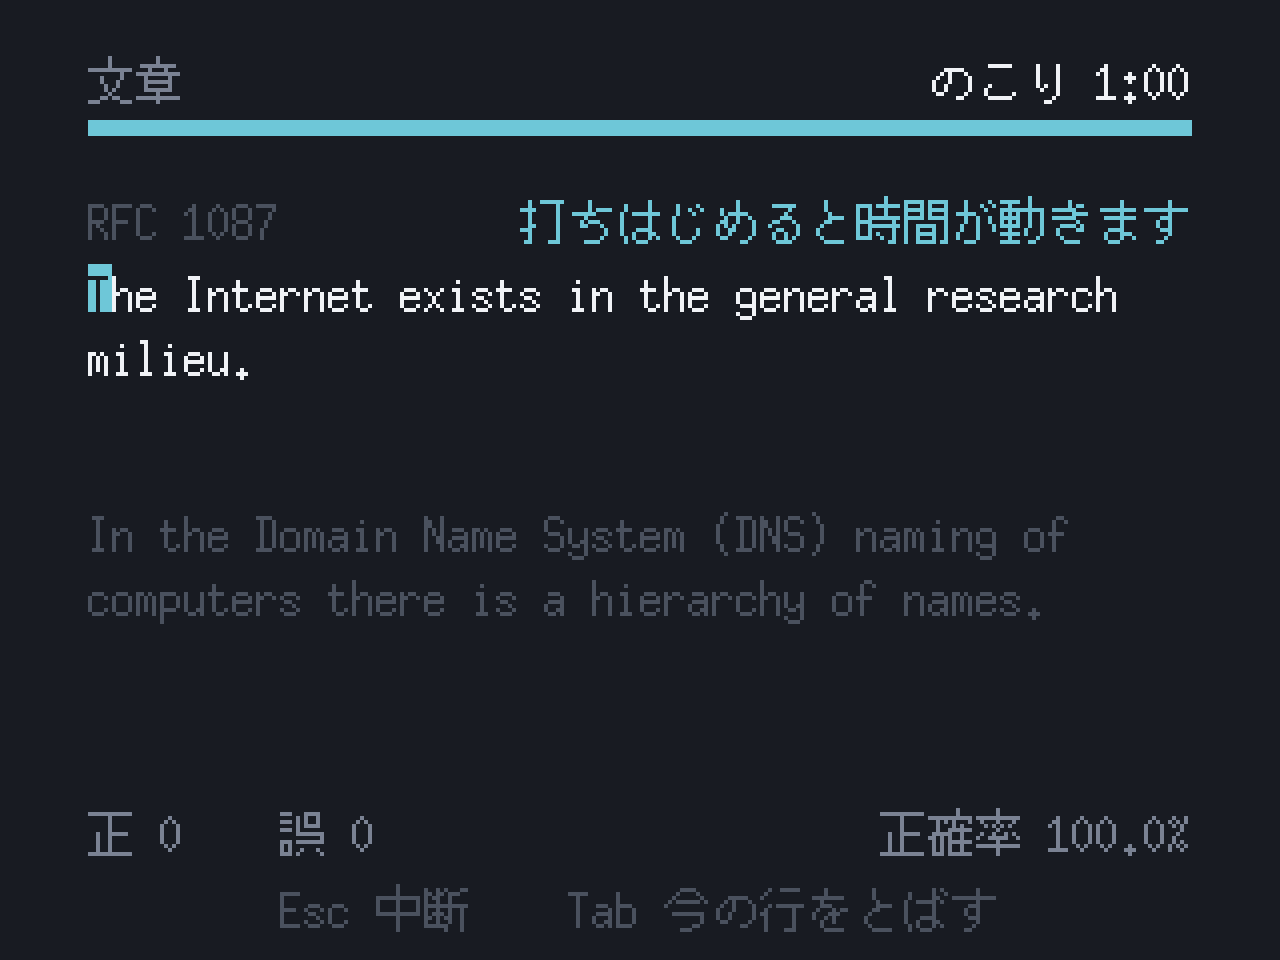
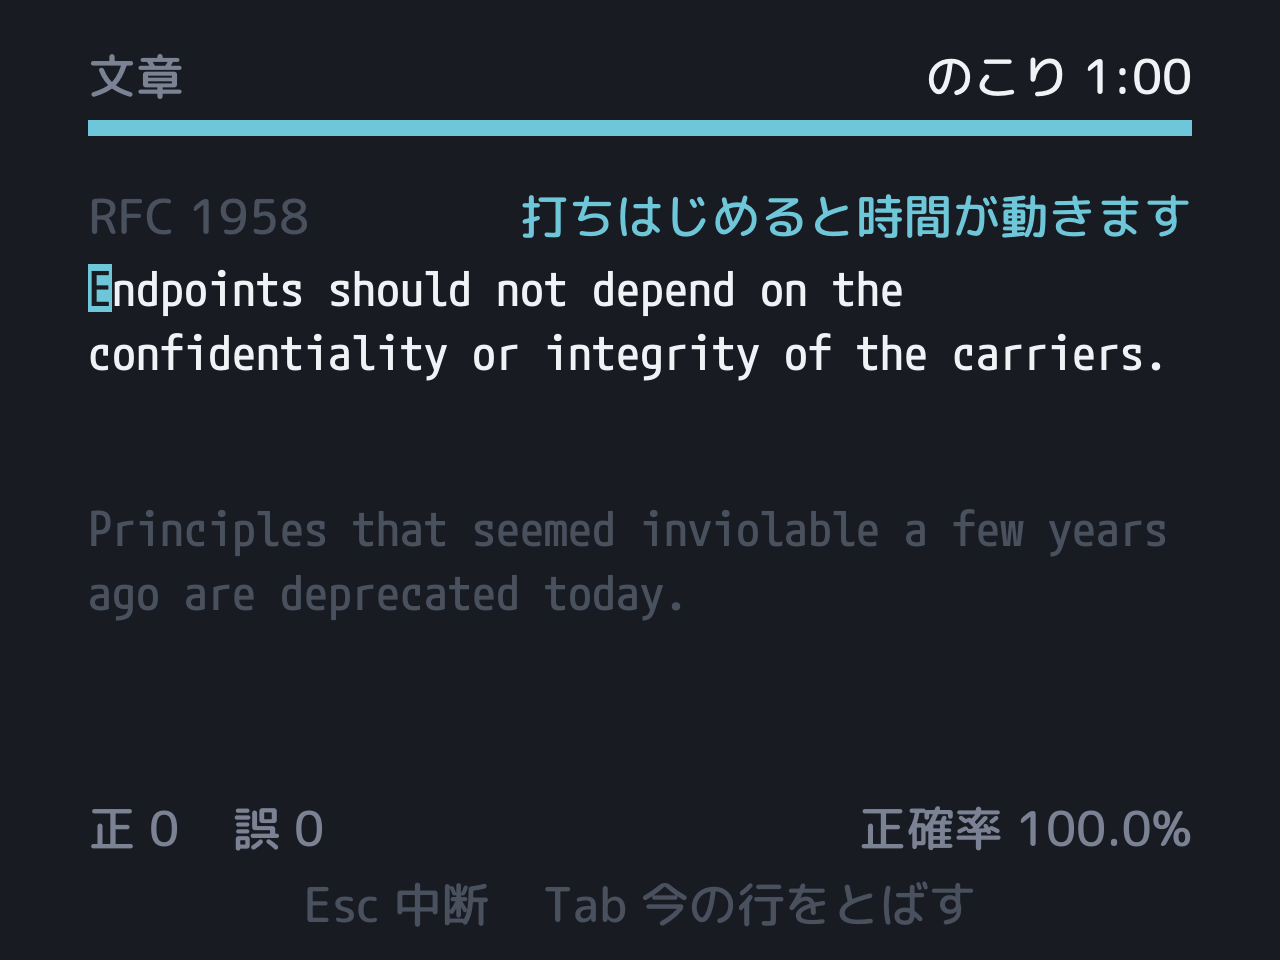
サイト公開: ビルド成果物を更新

diff --git a/apps/kotozuchi/index.html b/apps/kotozuchi/index.html
@@ -1,2 +1,2 @@
-<!doctype html><html lang=ja><head><meta charset=UTF-8><meta name=viewport content="width=device-width,initial-scale=1"><title>アプリ紹介</title><meta name=description content="オリジナルアプリを紹介するページ"><link rel=stylesheet href=/css/style.css></head><body><main class=container><p><a class=back-link href=/>&larr; アプリ一覧へ</a></p><article class=app-detail><header class=detail-header><h1>Kotozuchi</h1><span class=app-platform>ブラウザ</span><p class=app-tagline>RFC の英文・数字・記号を打って、打鍵を鍛えるタイピング練習ゲーム</p></header><figure class=detail-shot><img src=/img/kotozuchi.png alt="Kotozuchi のスクリーンショット"></figure><p class=app-note>名前は「言（こと）」＋「槌（つち）」＝「言槌（ことづち）」から。言葉を打って打鍵を鍛えることより。</p><section class=detail-section><h2>どんなゲーム？</h2><ul><li>画面に出る文字を、制限時間の中で正しく打っていくタイピング練習ゲーム。</li><li>出題は「文章」「数字」「記号」の3つのモードから選べます。</li><li>文章モードは、インターネットの取り決めを書いた文書「RFC」の本文から、英文を1文ずつそのまま出題します。</li><li>数字モードは 0〜9 の並びを、記号モードは ASCII の記号32種を出題します。</li></ul></section><section class=detail-section><h2>打ち方</h2><ul><li>正しいキーを押すと次の文字へ進みます。間違えても消す操作は要らず、正しいキーを押せば先に進みます。</li><li>間違えた文字には印が残り、何のキーを打ってしまったかも表示されます。</li><li>次に出る行が薄く先に表示されるので、行の切れ目で手が止まりにくくなっています。</li><li>制限時間は最初の1文字を打ったときから動き出します。</li></ul></section><section class=detail-section><h2>操作</h2><ul><li>メニューでは ↑↓ で項目を選び、←→ でモードや制限時間を変え、Enter で始めます。</li><li>制限時間は 15秒 から 10分 まで、9段階から選べます（はじめは 1分）。</li><li>打っている途中は、Esc で中断、Tab で今の行をとばせます。</li><li>IME（日本語入力）はオフにして遊んでください。</li></ul></section><section class=detail-section><h2>けっか</h2><ul><li>正しく打てた文字数・打ち間違い・とばした文字・正確率・速さ（1分あたりの文字数と語数）・打ち終えた行が表示されます。</li><li>スコアは「正しく打てた文字数 × 正確率」です。速くても間違いが多いと伸びません。</li><li>とばした文字も正確率に含まれるので、難しい行をとばして正確率を上げることはできません。</li></ul></section><section class=detail-section><h2>技術情報</h2><ul><li>Go + Ebitengine で書き、WebAssembly にしてブラウザで動かしています（同じコードでデスクトップ版にもなります）。</li><li>画面は論理解像度 640×480。文字は 12px のビットマップフォント（bitmapfont）で描画します。</li><li>キーの位置ではなく、OS やブラウザが解釈した後の文字で入力を受けるため、JIS 配列でも US 配列でも刻印どおりに打てます。</li><li>出題文は、著作権表示の無い 1997 年以前の RFC から自作ツールで抽出。固定幅の折り返しとページのヘッダ・フッタを除くだけで、語句は書き換えていません。抽出した文はバイナリに埋め込み。</li><li>GitHub Actions で main への push ごとに、テスト → WASM ビルド → GitHub Pages への配信を自動で行います。</li><li>ライセンスは Apache License 2.0。</li></ul></section><div class="app-links detail-links"><a class="btn btn-primary" href=https://morststs.github.io/kotozuchi/ target=_blank rel="noopener noreferrer">サイトを開く</a>
+<!doctype html><html lang=ja><head><meta charset=UTF-8><meta name=viewport content="width=device-width,initial-scale=1"><title>アプリ紹介</title><meta name=description content="オリジナルアプリを紹介するページ"><link rel=stylesheet href=/css/style.css></head><body><main class=container><p><a class=back-link href=/>&larr; アプリ一覧へ</a></p><article class=app-detail><header class=detail-header><h1>Kotozuchi</h1><span class=app-platform>ブラウザ</span><p class=app-tagline>RFC の英文・数字・記号を打って、打鍵を鍛えるタイピング練習ゲーム</p></header><figure class=detail-shot><img src=/img/kotozuchi.png alt="Kotozuchi のスクリーンショット"></figure><p class=app-note>名前は「言（こと）」＋「槌（つち）」＝「言槌（ことづち）」から。言葉を打って打鍵を鍛えることより。</p><section class=detail-section><h2>どんなゲーム？</h2><ul><li>画面に出る文字を、制限時間の中で正しく打っていくタイピング練習ゲーム。</li><li>出題は「文章」「数字」「記号」の3つのモードから選べます。</li><li>文章モードは、インターネットの取り決めを書いた文書「RFC」の本文から、英文を1文ずつそのまま出題します。</li><li>数字モードは 0〜9 の並びを、記号モードは ASCII の記号32種を出題します。</li></ul></section><section class=detail-section><h2>打ち方</h2><ul><li>正しいキーを押すと次の文字へ進みます。間違えても消す操作は要らず、正しいキーを押せば先に進みます。</li><li>間違えた文字には印が残り、何のキーを打ってしまったかも表示されます。</li><li>次に出る行が薄く先に表示されるので、行の切れ目で手が止まりにくくなっています。</li><li>制限時間は最初の1文字を打ったときから動き出します。</li></ul></section><section class=detail-section><h2>操作</h2><ul><li>メニューでは ↑↓ で項目を選び、←→ でモードや制限時間を変え、Enter で始めます。</li><li>制限時間は 15秒 から 10分 まで、9段階から選べます（はじめは 1分）。</li><li>打っている途中は、Esc で中断、Tab で今の行をとばせます。</li><li>IME（日本語入力）はオフにして遊んでください。</li></ul></section><section class=detail-section><h2>けっか</h2><ul><li>正しく打てた文字数・打ち間違い・とばした文字・正確率・速さ（1分あたりの文字数と語数）・打ち終えた行が表示されます。</li><li>スコアは「正しく打てた文字数 × 正確率」です。速くても間違いが多いと伸びません。</li><li>とばした文字も正確率に含まれるので、難しい行をとばして正確率を上げることはできません。</li></ul></section><section class=detail-section><h2>技術情報</h2><ul><li>Go + Ebitengine で書き、WebAssembly にしてブラウザで動かしています（同じコードでデスクトップ版にもなります）。</li><li>画面は論理解像度 640×480 で組み立て、実際の画素数で描くので、どの大きさでも文字がにじみません。文字は M PLUS Rounded 1c と、出題の行だけ等幅の M PLUS 1 Code。表示する文字だけに絞り込んで埋め込んでいます。</li><li>キーの位置ではなく、OS やブラウザが解釈した後の文字で入力を受けるため、JIS 配列でも US 配列でも刻印どおりに打てます。</li><li>出題文は、著作権表示の無い 1997 年以前の RFC から自作ツールで抽出。固定幅の折り返しとページのヘッダ・フッタを除くだけで、語句は書き換えていません。抽出した文はバイナリに埋め込み。</li><li>GitHub Actions で main への push ごとに、テスト → WASM ビルド → GitHub Pages への配信を自動で行います。</li><li>ライセンスは Apache License 2.0。</li></ul></section><div class="app-links detail-links"><a class="btn btn-primary" href=https://morststs.github.io/kotozuchi/ target=_blank rel="noopener noreferrer">サイトを開く</a>
 <a class=btn href=https://github.com/morststs/kotozuchi target=_blank rel="noopener noreferrer">GitHub</a></div></article></main><footer class=site-footer><p>&copy; 2026 アプリ紹介</p></footer></body></html>
